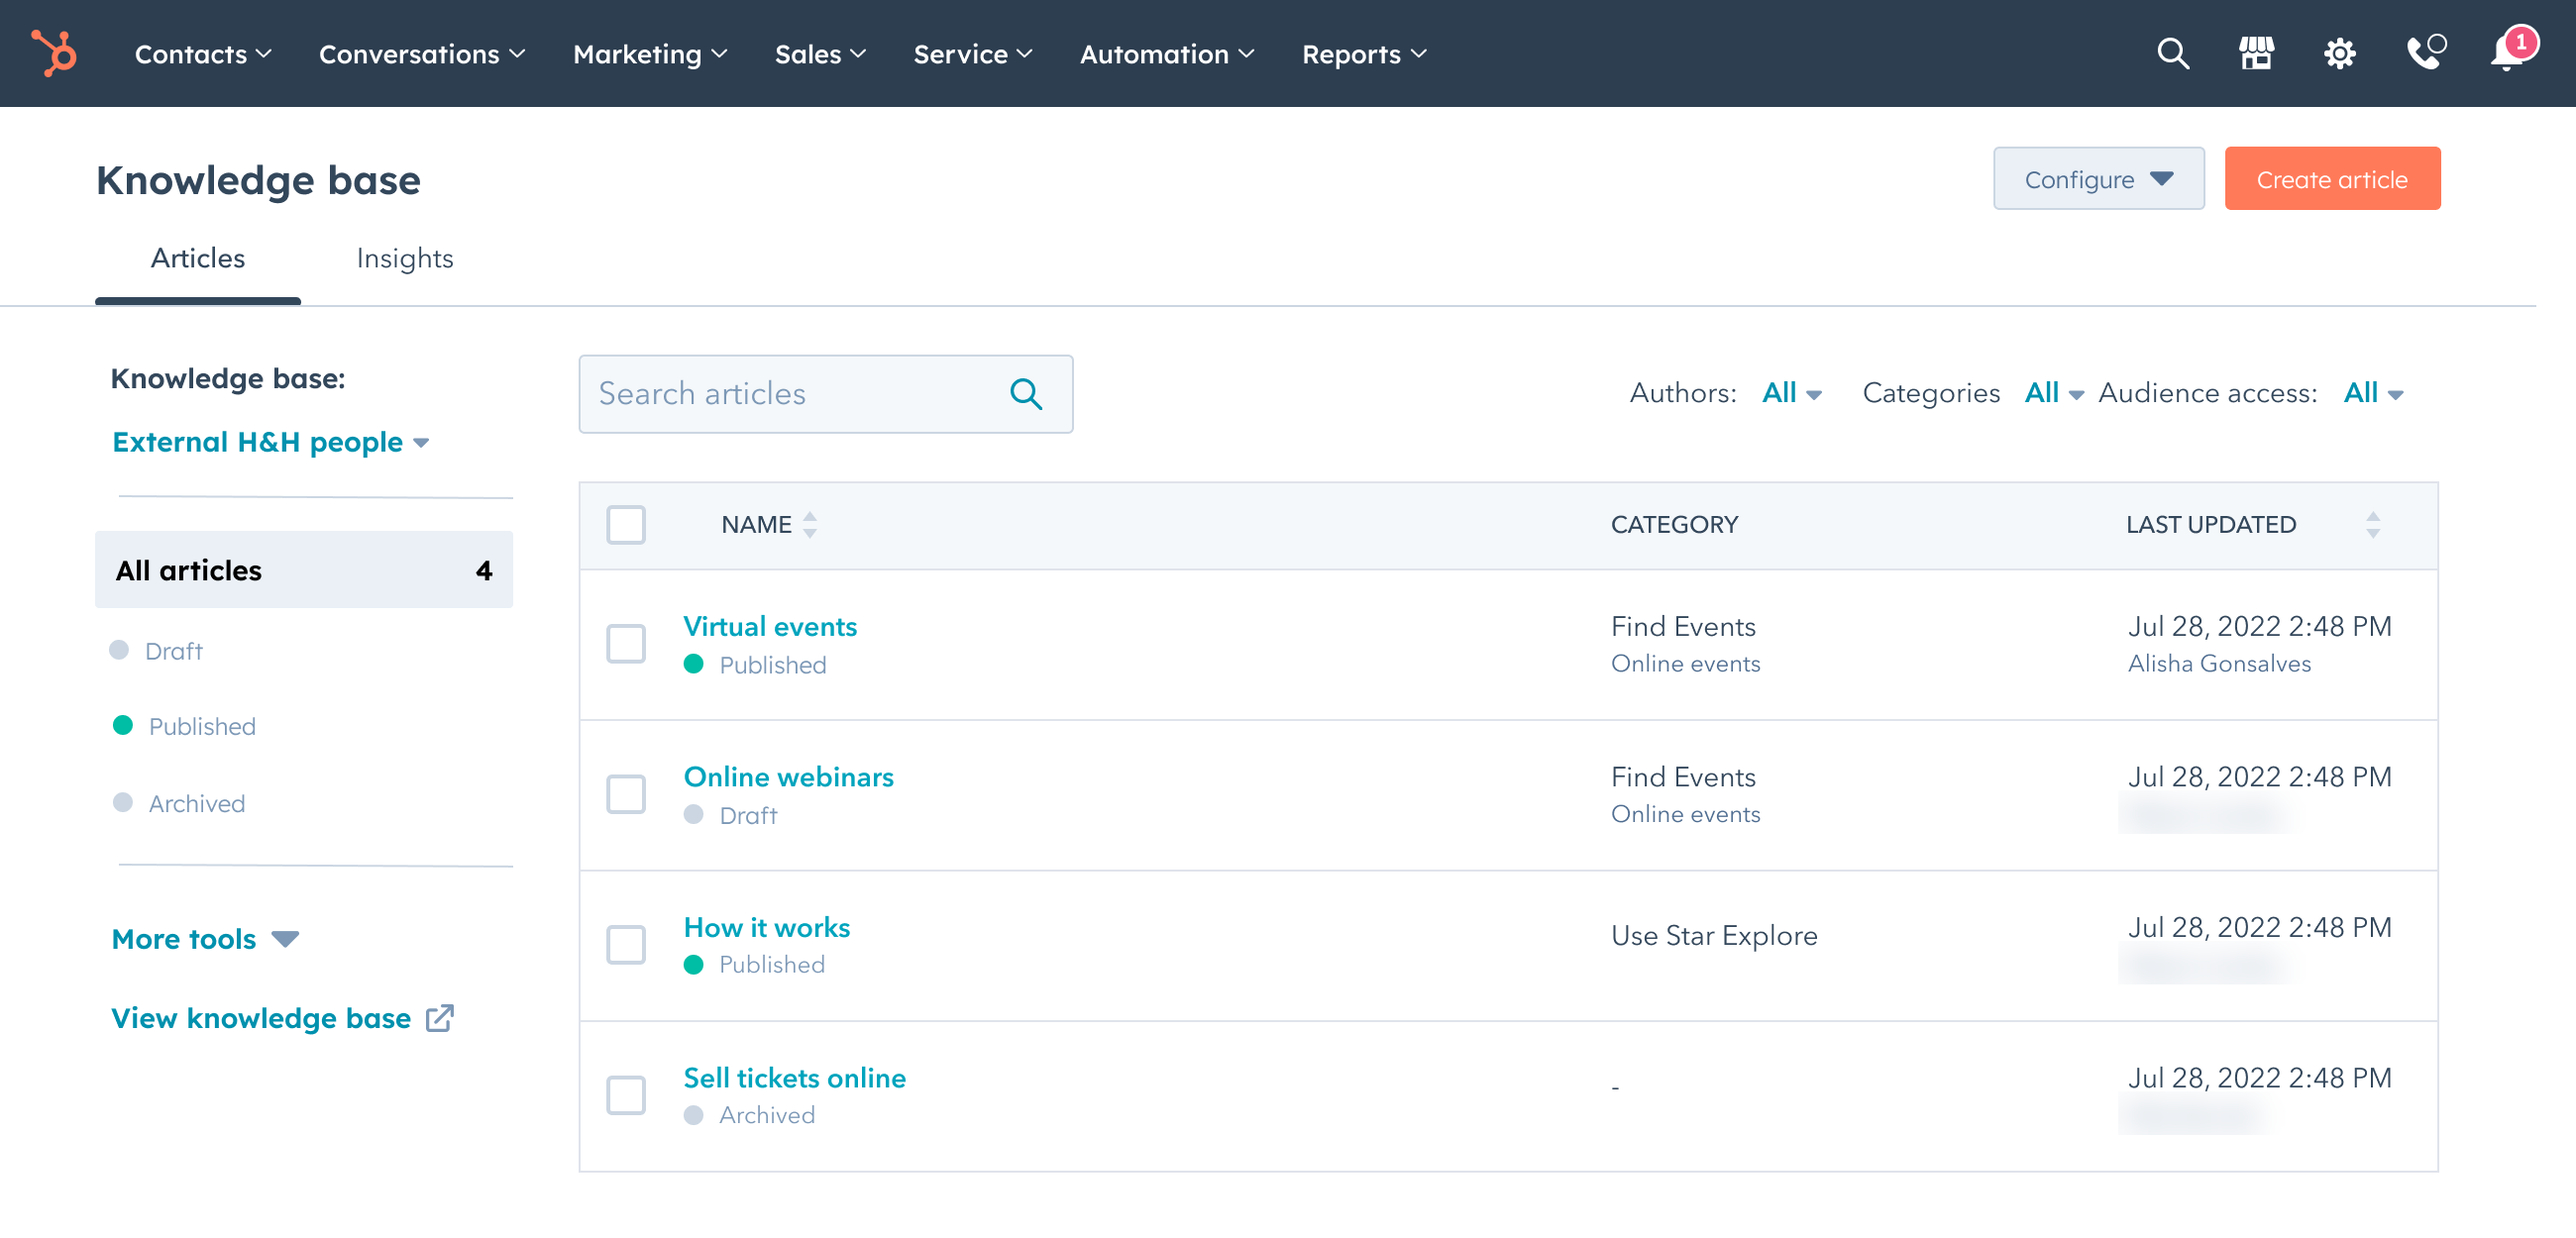
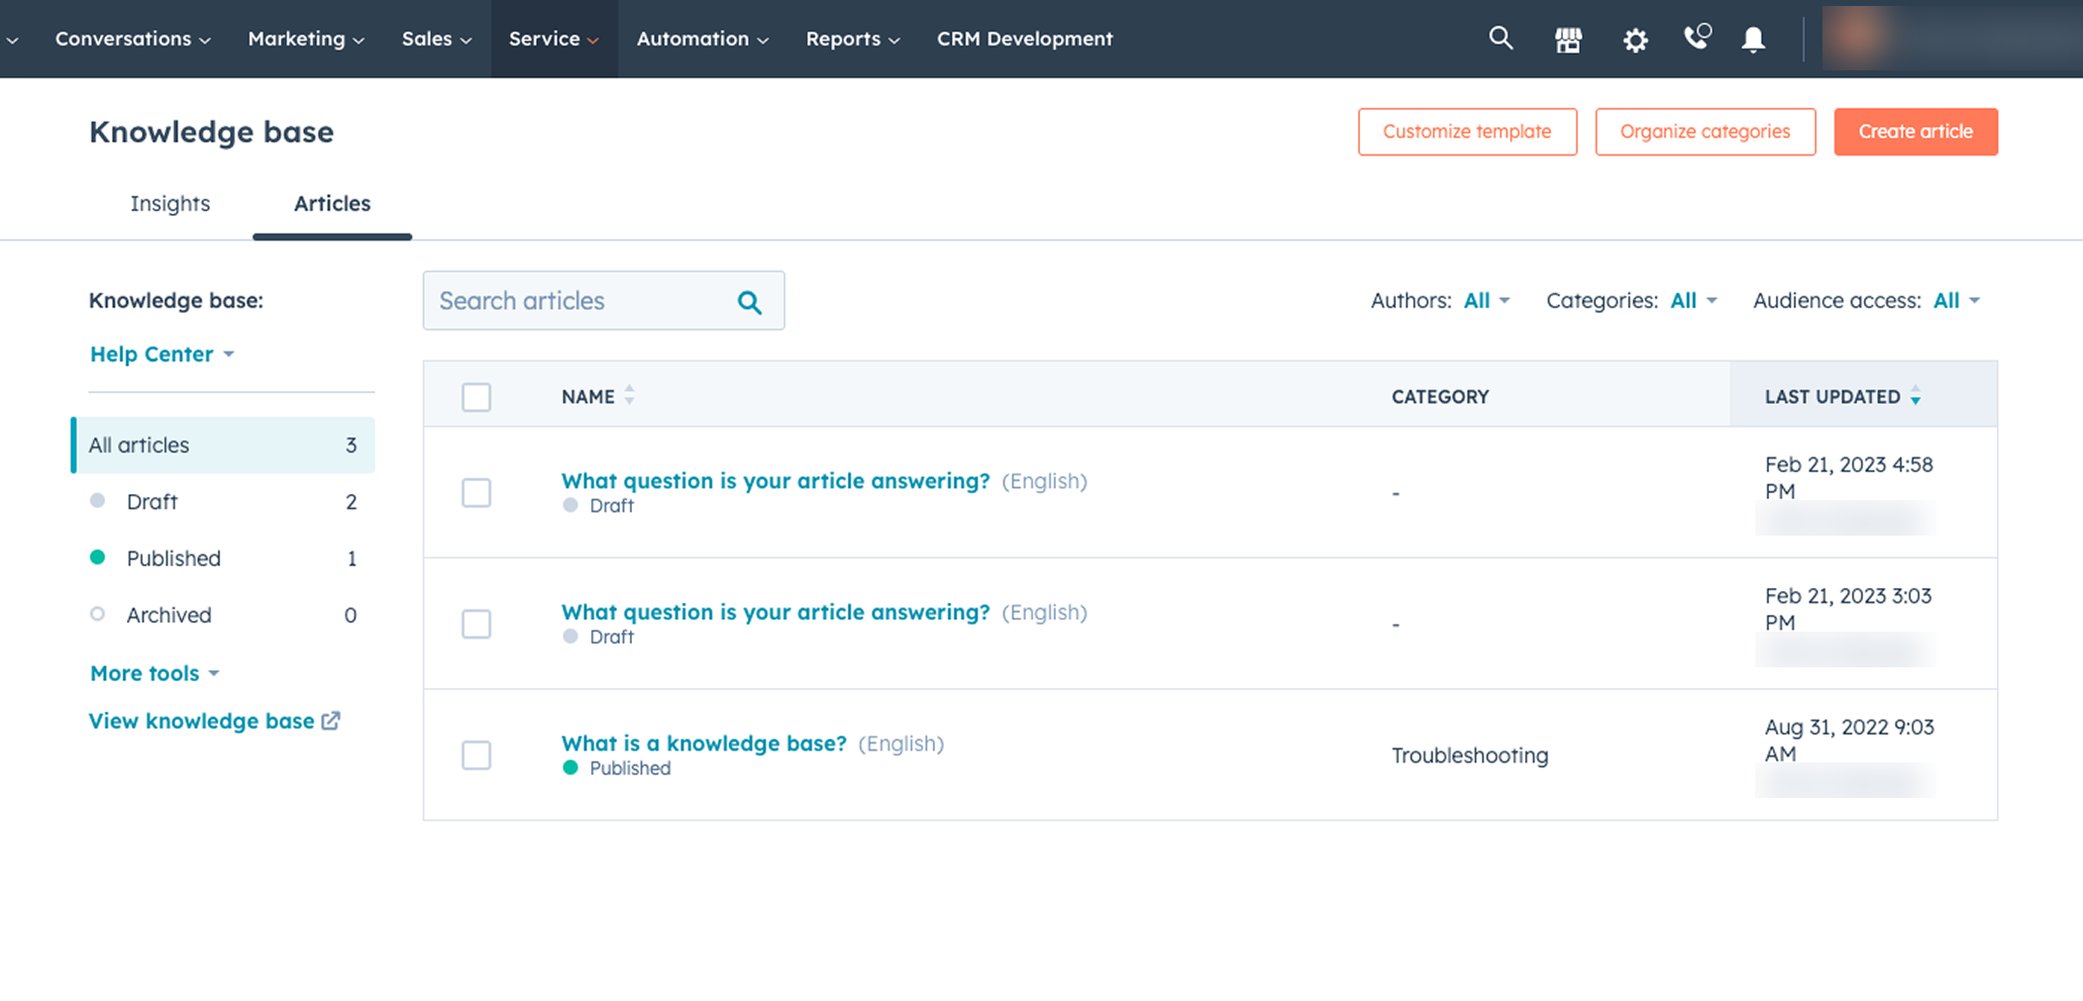
Swap before/after Knowledge Base screens and update captions
Claude-Session: https://claude.ai/code/session_017op5L85MCovC4qWXVVxdtW

diff --git a/src/app/work/knowledge-base/page.tsx b/src/app/work/knowledge-base/page.tsx
@@ -23,20 +23,20 @@ export const metadata: Metadata = {
 // slider would misalign mid-drag. Colleagues' names are blurred in the images.
 const beforeAfter = [
   {
-    tag: "Before · 2022",
-    title: "Phase 1 on the old infrastructure",
+    tag: "Before · Legacy tool",
+    title: "The original Knowledge Base",
     caption:
-      "Multiple knowledge bases shipped through a switcher in the sidebar. Template and category settings still sat behind one Configure menu.",
+      "The tool on its pre-platform infrastructure. Template and category settings each had their own button.",
     image: kbBefore,
-    alt: "The 2022 Knowledge Base article list in HubSpot, with a knowledge base switcher in the sidebar and a single Configure menu beside Create article.",
+    alt: "The legacy Knowledge Base article list in HubSpot, with Customize template, Organize categories and Create article buttons, and article counts by status.",
   },
   {
-    tag: "After · 2023",
-    title: "Phase 2 on the content platform",
+    tag: "After · Content platform",
+    title: "Rebuilt on the content platform",
     caption:
-      "Customize template and Organize categories became their own buttons, backed by CMS themes and drag-and-drop categories.",
+      "The same view on the platform HubSpot’s blog and website use. Settings now sit under one Configure menu.",
     image: kbAfter,
-    alt: "The 2023 Knowledge Base article list on the content platform, with Customize template, Organize categories and Create article buttons, and article counts by status.",
+    alt: "The new Knowledge Base article list on HubSpot’s content platform, with a knowledge base switcher in the sidebar and a Configure menu beside Create article.",
   },
 ];
 
